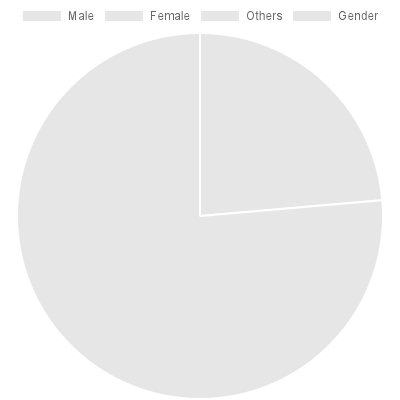
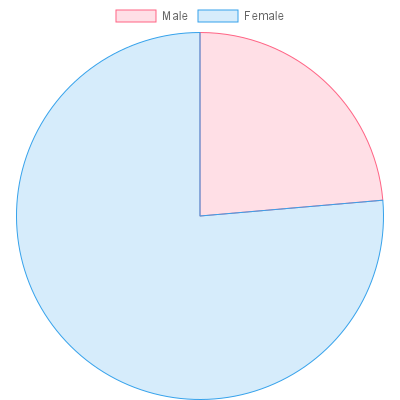
feat: server complete

diff --git a/server/index.js b/server/index.js
@@ -18,13 +18,13 @@ server.get("/", (_, res) => res.status(200).send({ hello: "there" }));
 
 server.post("/upload", multerUpload.single("file"), (req, res) => {
   const fileRows = [];
-  let genderData = { Male: 0, Female: 0, Others: 0 };
+  let genderData = { Male: 0, Female: 0 };
   csv
     .parseFile(req?.file?.path)
     .on("data", function (row) {
       if (Object.values(row).every((x) => x !== null && x !== "")) {
         fileRows.push(row);
-        if (row[2]) {
+        if (row[2] && ["Male", "Female"].includes(row[2])) {
           genderData[row[2]]++;
         }
       }
@@ -35,13 +35,14 @@ server.post("/upload", multerUpload.single("file"), (req, res) => {
       const sheet = doc.addWorksheet("xena_nodejs_task");
       sheet.columns = [
         { header: "Sl", key: "id", width: 10 },
-        ...fileRows[0].map((row) => ({
-          header: row,
+        ...Object.keys(fileRows[0]).map((row) => ({
+          header: fileRows[0][row],
           key: row,
-          width: 10,
+          width: 20,
         })),
       ];
-      fileRows.forEach((item, index) => {
+
+      fileRows.slice(1).forEach((item, index) => {
         sheet.addRow({ id: index + 1, ...item });
       });
       await doc.xlsx.writeFile("./public/sheet.xlsx");
@@ -55,7 +56,18 @@ server.post("/upload", multerUpload.single("file"), (req, res) => {
         type: "pie",
         data: {
           labels: Object.keys(genderData),
-          datasets: [{ data: Object.values(genderData) }],
+          datasets: [
+            {
+              label: "Gender ratio",
+              data: Object.values(genderData),
+              backgroundColor: [
+                "rgba(255, 99, 132, 0.2)",
+                "rgba(54, 162, 235, 0.2)",
+              ],
+              borderColor: ["rgba(255,99,132,1)", "rgba(54, 162, 235, 1)"],
+              borderWidth: 1,
+            },
+          ],
         },
         options: {},
         plugins: [],
